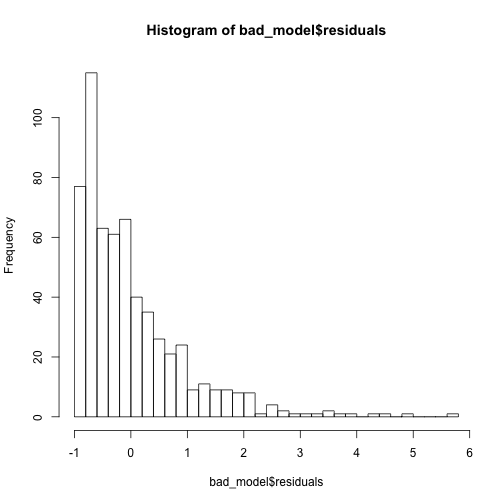
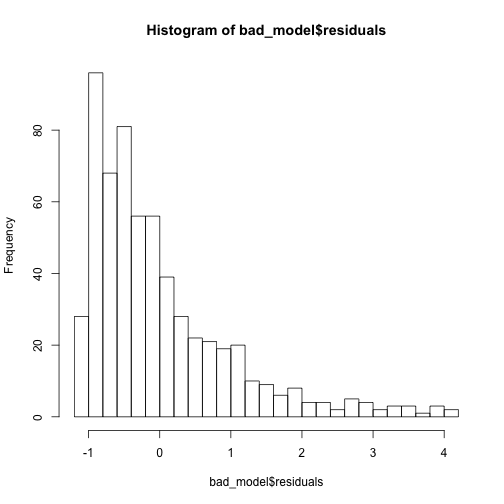
changed description of bad model plots

diff --git a/_episodes/05-anova.md b/_episodes/05-anova.md
@@ -228,11 +228,13 @@ plot(model, which = 1)
 Note that the residuals are plotted along one of two fitted values - the one for standard chow (25.9), or the predicted value for high-fat diet (28.5). There should be constant variance vertically and points should scatter symmetrically around zero. The plot indicates the 3 data points that stand out as outliers, with index numbers supplied for each.   
 
 ## A Bad Model
-Now let's look at one that is unmistakably bad. This is a linear model created from a fake dataset. 
+Now let's look at one that is unmistakably bad. This is a linear model created from a fake dataset. Notice that the slope of the line is nearly horizontal.
 
 
 
 ![](../fig/bad-linear-model.png)
+
+If we look at a summary of the linear model, we can see that the residuals aren't normally distributed.
 
 
 ~~~
@@ -242,22 +244,24 @@ lm(formula = y ~ x, data = bad_data)
 
 Residuals:
     Min      1Q  Median      3Q     Max 
--0.9641 -0.6754 -0.2661  0.3627  5.6024 
+-1.0537 -0.7399 -0.3242  0.3873  4.1918 
 
 Coefficients:
             Estimate Std. Error t value Pr(>|t|)    
-(Intercept)  1.02856    0.14738   6.979 7.92e-12 ***
-x           -0.06114    0.12926  -0.473    0.636    
+(Intercept)   1.2675     0.1578   8.032 5.13e-15 ***
+x            -0.2120     0.1384  -1.531    0.126    
 ---
 Signif. codes:  0 '***' 0.001 '**' 0.01 '*' 0.05 '.' 0.1 ' ' 1
 
-Residual standard error: 0.9499 on 598 degrees of freedom
-Multiple R-squared:  0.000374,	Adjusted R-squared:  -0.001298 
-F-statistic: 0.2237 on 1 and 598 DF,  p-value: 0.6364
+Residual standard error: 1.017 on 598 degrees of freedom
+Multiple R-squared:  0.003907,	Adjusted R-squared:  0.002241 
+F-statistic: 2.345 on 1 and 598 DF,  p-value: 0.1262
 ~~~
 {: .output}
 
-Note the values for the F-statistic and the R-squared. Also notice that the slope (Estimate column) is near zero (-0.06114), indicating no relationship between the two variables.
+Notice that the slope (Estimate column) is near zero (-0.211974), indicating no relationship between the two variables. Also note the values for the F-statistic and the R-squared.  
+
+The histogram for the residuals doesn't show a normal distribution, which is one of the three important assumptions for linear models. In the Q-Q plot most of the data points are off-diagonal.
 
 
 ~~~
@@ -280,8 +284,6 @@ plot(bad_model, which=1)
 {: .language-r}
 
 <img src="../fig/rmd-05-bad_model_not_normal-3.png" title="plot of chunk bad_model_not_normal" alt="plot of chunk bad_model_not_normal" style="display: block; margin: auto;" />
-
-The histogram doesn't show a normal distribution, and mean residual value doesn't appear to be near zero. In the Q-Q plot most of the data points are off-diagonal. The plot of residuals vs. fitted values appears parabolic, indicating poor model fit.
 
 ## Outliers
 
